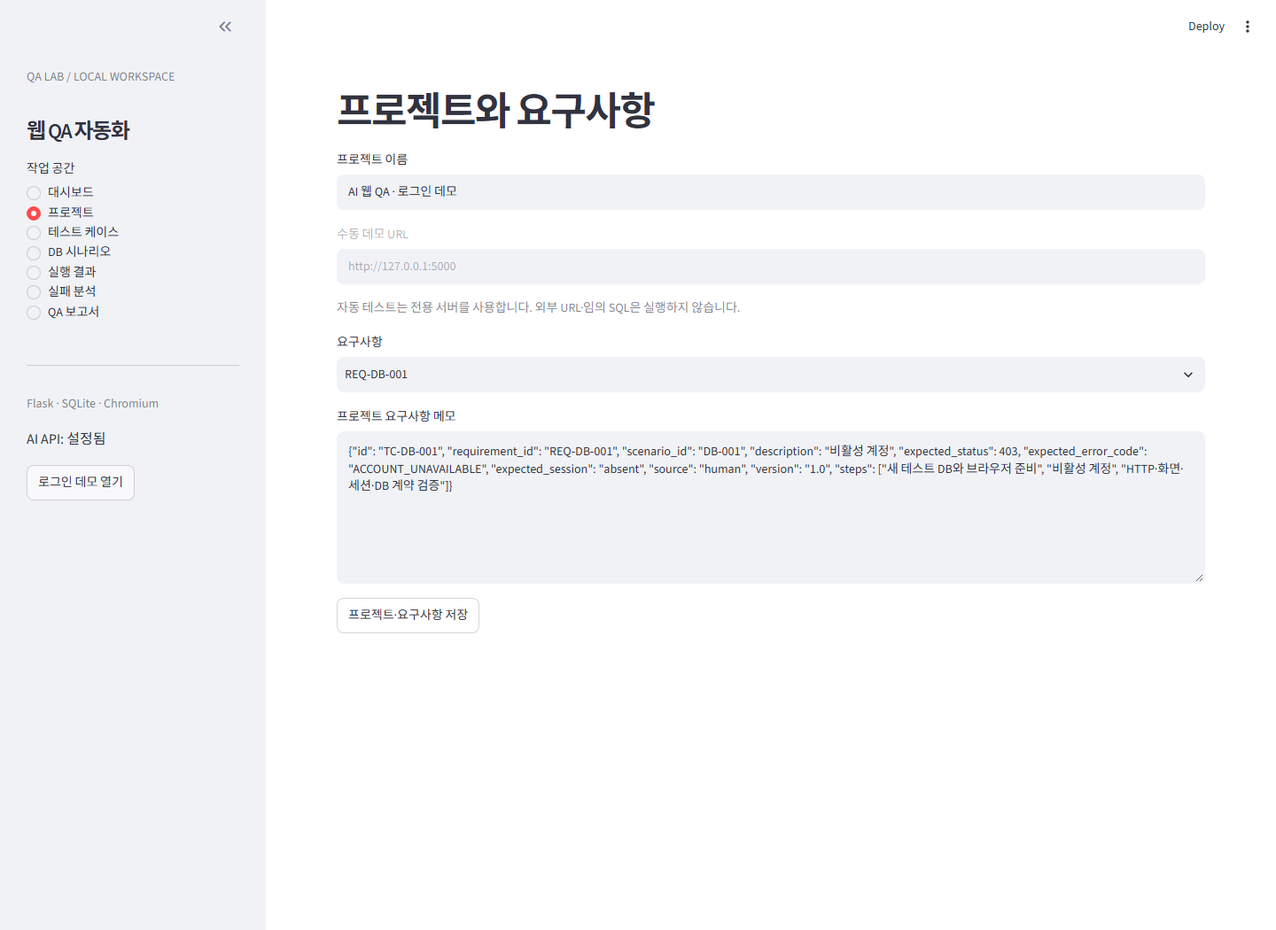
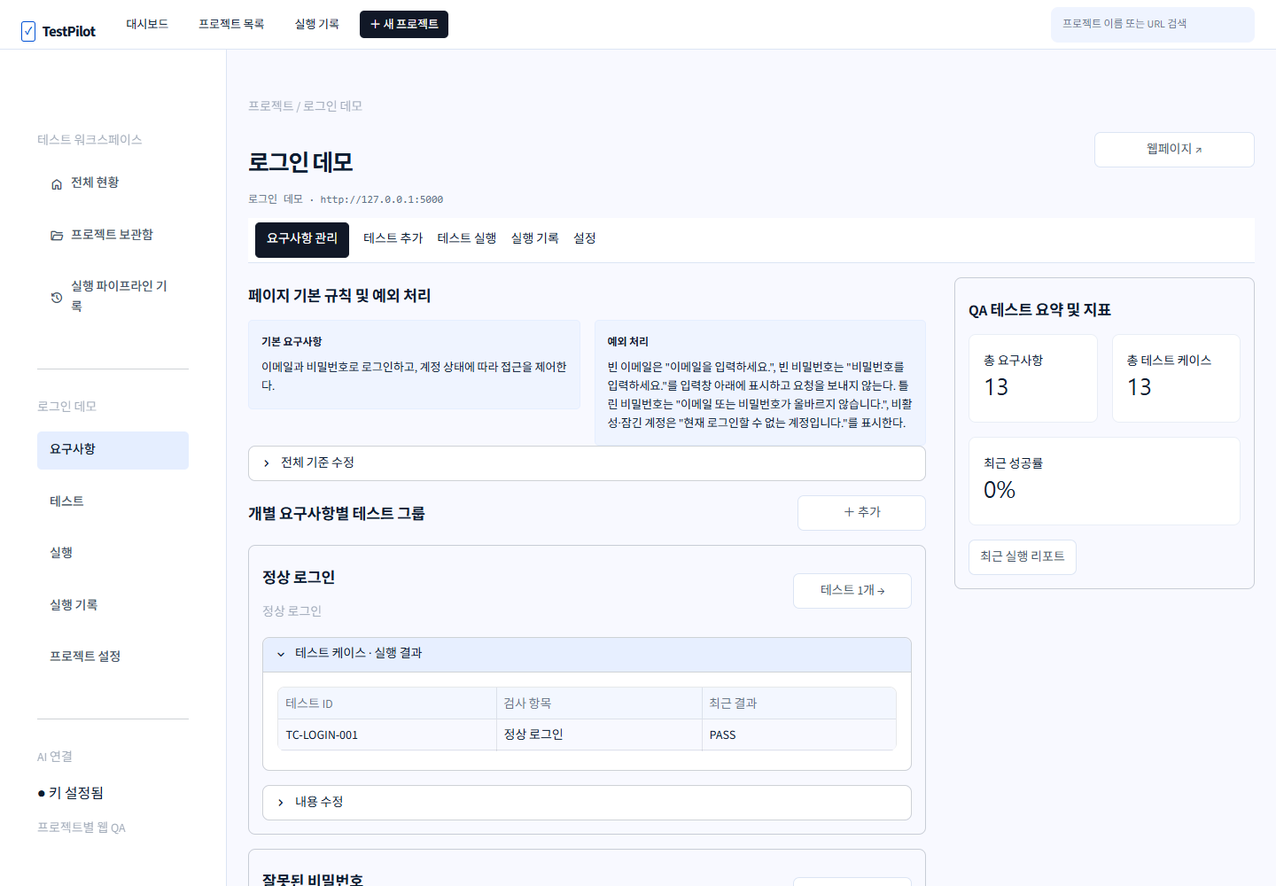
docs: describe the implemented system and refresh screenshots
- PROJECT_OVERVIEW.md now describes the current system instead of the
  plan: AI designs browser steps from the real page structure, people
  approve them, a restricted engine runs them, and failures are
  triaged by cause. Evaluation results replace planned metrics, with
  remaining work and limitations stated.
- AI_Web_QA_Project_Plan.md keeps the original plan and adds a table of
  what changed during implementation and why.
- Replace the October screenshots with the current UI, including AI
  test generation with selector checks and AI failure analysis.
- Rewrite scripts/capture_ui_docs.py to rebuild real data in a
  disposable workspace and capture the four screens reproducibly.

diff --git a/scripts/capture_ui_docs.py b/scripts/capture_ui_docs.py
@@ -1,17 +1,141 @@
-from pathlib import Path
-from playwright.sync_api import sync_playwright
+"""Capture the current QA app screens for docs/images from a disposable workspace.
 
-out = Path(__file__).resolve().parents[1] / 'docs' / 'images'
-out.mkdir(parents=True, exist_ok=True)
-with sync_playwright() as p:
-    browser = p.chromium.launch()
-    page = browser.new_page(viewport={'width': 1440, 'height': 1050}, device_scale_factor=1)
-    page.goto('http://127.0.0.1:8501', wait_until='domcontentloaded')
-    page.get_by_text('검증 가능한 테스트, 설명 가능한 결과', exact=True).wait_for(timeout=60000)
-    page.wait_for_timeout(1500)
-    for label, filename in [('대시보드', 'dashboard.png'), ('프로젝트', 'requirements.png'), ('테스트 케이스', 'test-cases.png'), ('실행 결과', 'results.png')]:
-        page.get_by_text(label, exact=True).first.click()
+Prepares real data first: the 10 baseline login tests, the intentional-fault tests with AI failure
+analysis, and one AI test generation that reads the page structure. Then screenshots four screens:
+dashboard, project requirements, AI test generation, and failure analysis.
+
+Usage:  .venv\\Scripts\\python.exe -m scripts.capture_ui_docs
+Needs port 5000 (login demo) and 8505 free. Makes about 4 OpenAI calls. data/qa.db is never touched.
+Set QA_BROWSER_CHANNEL=msedge when Playwright's Chromium is not installed.
+"""
+import os
+import socket
+import subprocess
+import sys
+import tempfile
+import threading
+import time
+import urllib.request
+from pathlib import Path
+
+ROOT = Path(__file__).resolve().parents[1]
+WORK = Path(tempfile.mkdtemp(prefix='ui-docs-'))
+os.environ['QA_DB_PATH'] = str(WORK / 'qa.db')
+
+from dotenv import load_dotenv  # noqa: E402
+load_dotenv(ROOT / '.env')
+
+from werkzeug.serving import make_server  # noqa: E402
+from demo_web.app import create_app  # noqa: E402
+from demo_web.seed import seed  # noqa: E402
+from qa_system import failure_analysis, storage  # noqa: E402
+from qa_system.projects import cases, get_project, save_project  # noqa: E402
+from qa_system.runner import run_suite  # noqa: E402
+from scripts.setup_fault_projects import install  # noqa: E402
+
+OUT = ROOT / 'docs/images'
+APP_PORT = 8505
+AI_REQUEST = '이메일을 비운 채 로그인하면 이메일 오류 문구가 보이는지 확인하는 테스트를 만들어줘.'
+
+
+def port_free(port):
+    with socket.socket() as probe:
+        return probe.connect_ex(('127.0.0.1', port)) != 0
+
+
+def prepare():
+    storage.initialize()
+    demo = storage.baseline_project_id()
+    project = get_project(demo)
+    # Requirement text states the exact messages, as a real specification would.
+    save_project(demo, project['name'], project['overview'] or '이메일과 비밀번호로 로그인하고, 계정 상태에 따라 접근을 제어한다.',
+                 project['exceptions'] or '빈 이메일은 "이메일을 입력하세요.", 빈 비밀번호는 "비밀번호를 입력하세요."를 입력창 아래에 '
+                 '표시하고 요청을 보내지 않는다. 틀린 비밀번호는 "이메일 또는 비밀번호가 올바르지 않습니다.", 비활성·잠긴 계정은 '
+                 '"현재 로그인할 수 없는 계정입니다."를 표시한다.', tags=['로그인', 'DB', '회귀 테스트'])
+    print('baseline run', run_suite(), flush=True)
+    installed = install()
+    for project_id, case_ids in installed.items():
+        faults = [c['id'] for c in cases(project_id) if c['id'] in case_ids]
+        run_id = run_suite(faults, project_id=project_id)
+        print('fault run', run_id, flush=True)
+        if project_id == demo:
+            print('analysis', failure_analysis.analyze_run(run_id), flush=True)
+    return demo
+
+
+def wait_for(url, seconds=60):
+    for _ in range(seconds * 2):
+        try:
+            with urllib.request.urlopen(url, timeout=2):
+                return
+        except OSError:
+            time.sleep(0.5)
+    raise RuntimeError(f'{url} did not start')
+
+
+def capture(demo):
+    from playwright.sync_api import expect, sync_playwright
+    OUT.mkdir(parents=True, exist_ok=True)
+    with sync_playwright() as playwright:
+        browser = playwright.chromium.launch(channel=os.getenv('QA_BROWSER_CHANNEL') or None)
+        page = browser.new_page(viewport={'width': 1440, 'height': 1000}, device_scale_factor=1)
+        page.goto(f'http://127.0.0.1:{APP_PORT}')
+        expect(page.get_by_role('heading', name='QA 워크스페이스', exact=True)).to_be_visible(timeout=60000)
         page.wait_for_timeout(1500)
-        page.screenshot(path=str(out / filename))
-        print(label, page.locator('body').inner_text()[:2000])
-    browser.close()
+        page.screenshot(path=str(OUT / 'dashboard.png'))
+
+        page.locator(f'.st-key-open_{demo} button').click()
+        expect(page.get_by_role('heading', name='QA 테스트 요약 및 지표')).to_be_visible(timeout=30000)
+        page.wait_for_timeout(1500)
+        page.screenshot(path=str(OUT / 'requirements.png'))
+
+        nav = page.locator('.st-key-project_nav')
+        nav.get_by_role('button', name='테스트 추가', exact=True).click()
+        page.locator('.st-key-show_test_modal button').click()
+        dialog = page.get_by_role('dialog')
+        expect(dialog.get_by_role('heading', name='AI 테스트 생성')).to_be_visible(timeout=30000)
+        dialog.get_by_label('어떤 테스트를 할까요?').fill(AI_REQUEST)
+        dialog.get_by_label('어떤 테스트를 할까요?').press('Control+Enter')
+        dialog.get_by_role('button', name='✦ 테스트 생성').click()
+        check = dialog.get_by_text('시작 페이지에서 정확히').first
+        expect(check).to_be_visible(timeout=120000)
+        check.scroll_into_view_if_needed()  # show the generated steps together with the selector check
+        page.wait_for_timeout(1500)
+        page.screenshot(path=str(OUT / 'test-cases.png'))
+        page.keyboard.press('Escape')
+        expect(dialog).to_be_hidden(timeout=15000)
+
+        nav.get_by_role('button', name='실행 기록', exact=True).click()
+        page.get_by_role('tab', name='실패 분석').click()
+        expect(page.get_by_text('AI 분류').first).to_be_visible(timeout=30000)
+        page.wait_for_timeout(1500)
+        page.screenshot(path=str(OUT / 'results.png'))
+        browser.close()
+
+
+def main():
+    for port in (5000, APP_PORT):
+        if not port_free(port):
+            raise SystemExit(f'포트 {port}가 사용 중입니다. 실행 중인 데모나 QA 앱을 종료한 뒤 다시 실행하세요.')
+    seed(WORK / 'demo.db')
+    demo_server = make_server('127.0.0.1', 5000, create_app(WORK / 'demo.db'))
+    threading.Thread(target=demo_server.serve_forever, daemon=True).start()
+    app = None
+    try:
+        demo = prepare()
+        app = subprocess.Popen([sys.executable, '-m', 'streamlit', 'run', str(ROOT / 'streamlit_app.py'),
+                                '--server.address', '127.0.0.1', '--server.port', str(APP_PORT),
+                                '--server.headless', 'true', '--browser.gatherUsageStats', 'false'],
+                               cwd=ROOT, env=os.environ.copy(), stdout=subprocess.DEVNULL, stderr=subprocess.DEVNULL)
+        wait_for(f'http://127.0.0.1:{APP_PORT}/_stcore/health')
+        capture(demo)
+        print('saved to', OUT)
+    finally:
+        if app:
+            app.terminate()
+            app.wait(timeout=15)
+        demo_server.shutdown()
+
+
+if __name__ == '__main__':
+    main()

diff --git a/PROJECT_OVERVIEW.md b/PROJECT_OVERVIEW.md
@@ -1,17 +1,17 @@
-# AI 웹 QA 자동화 시스템
+# AI 웹 QA 자동화 시스템 (TestPilot)
 
-생성형 AI를 활용해 웹 기능의 요구사항을 테스트 케이스로 구체화하고, 검토한 테스트를 실제 브라우저에서 실행한 뒤 실패 원인과 QA 결과를 정리하는 인공지능프로젝트 과목의 개인 프로젝트입니다.
+생성형 AI가 요구사항과 실제 페이지 구조를 바탕으로 브라우저 테스트를 설계하고, 사람이 검토한 테스트를 실제 브라우저에서 실행한 뒤, 실패하면 그 원인이 테스트 쪽인지 제품 쪽인지 구분해 QA 보고서로 정리하는 인공지능프로젝트 과목의 개인 프로젝트입니다.
 
 - **Notion 프로젝트 계획서:** [AI 웹 QA 자동화 시스템](https://www.notion.so/3eb65ab291e7815faa49c0bb80c996df)
 - **GitHub:** https://github.com/Rascal7/26AI_QAproject
 - **일정:** 7주차 기획, 9~11주차 총 3주 구현 및 테스트
-- **이 README의 범위:** 프로젝트 개요와 설계·개발 계획입니다. 아래 항목은 계획과 완료 기준을 설명하며, 구현 완료 또는 성능 검증 결과를 의미하지 않습니다.
+- **문서 범위:** 이 문서는 현재 구현된 시스템과 측정 결과를 설명합니다. 설치·실행 방법은 [README](README.md), 검증 기록은 [VALIDATION.md](VALIDATION.md), AI 효과 측정은 [AI 기능 효과 측정](docs/ai-evaluation.md)에 있습니다. 처음 기획과 달라진 점은 [기획서](AI_Web_QA_Project_Plan.md)의 "구현 반영 사항"에 정리했습니다.
 
 ## 1. 개발 배경과 목적
 
-웹 기능이 추가되거나 수정될 때 정상 동작, 잘못된 입력, 경계값과 예외 상황을 반복적으로 확인해야 합니다. 개인 개발자와 소규모 팀은 테스트 케이스 작성, 자동화 코드 구현, 실패 원인 조사와 보고서 작성에 많은 시간을 씁니다.
+웹 기능이 추가되거나 수정될 때 정상 동작, 잘못된 입력, 경계값과 예외 상황을 반복해서 확인해야 합니다. 개인 개발자와 소규모 팀은 테스트 케이스 작성, 자동화 코드 구현, 실패 원인 조사와 보고서 작성에 많은 시간을 씁니다.
 
-이 프로젝트는 생성형 AI의 테스트 설계·분석 능력과 실제 브라우저 자동화를 연결해 반복적인 QA 업무를 보조합니다. AI 응답만으로 성공 여부를 판단하지 않고 실행 결과와 증거를 확인합니다.
+이 프로젝트는 생성형 AI의 테스트 설계·분석 능력과 실제 브라우저 자동화를 연결해 반복적인 QA 업무를 돕습니다. **AI 응답만으로 성공 여부를 판단하지 않습니다.** PASS/FAIL은 실제 브라우저 실행 결과로 정하고, AI가 낸 결과는 사람이 검토합니다.
 
 ## 2. 사용자와 핵심 기능
 
@@ -19,105 +19,134 @@
 
 | 기능 | 입력 → 처리 → 출력 |
 |---|---|
-| 요구사항 관리 | 프로젝트·기능 명세 → 입력 검증·저장 → 검토 가능한 요구사항 |
-| AI 테스트 케이스 생성 | 명세·테스트 계약 → 정상·경계값·예외 시나리오 설계 → 구조화된 TC |
-| 테스트 검토·코드 생성 | 선택한 TC → 사용자 검토·AI 코드 생성 → Python 테스트 코드 |
-| 자동 실행 | 검토·승인한 코드 → pytest·Playwright·Chromium → 실행 결과와 증거 |
-| 실패 분석 | 코드·로그·기대/실제 결과 → AI 분석 → 관찰 사실·원인 후보·추가 확인 사항 |
-| QA 보고서 | 결과·분석 → 집계 및 요약 → 테스트 현황·버그 리포트 |
+| 프로젝트·요구사항 관리 | 웹페이지 URL, 전체 요구사항·예외사항, 개별 요구사항 → 저장·태그·검색 → 요구사항별 테스트 그룹 |
+| AI 테스트 생성 | 요구사항 + 사용자 요청 + **실제 페이지 구조** → AI가 브라우저 동작 단계 설계 → 선택자를 실제 페이지에서 확인한 테스트 초안 |
+| 테스트 검토·승인 | AI 초안·기본 템플릿 → 사람이 단계·선택자 수정 후 승인 → 실행 가능한 테스트 |
+| 자동 실행 | 승인한 테스트 → pytest·Playwright·Chromium(별도 프로세스) → PASS/FAIL/ERROR와 스크린샷·trace 증거 |
+| AI 실패 분석 | FAIL의 요구사항·단계·오류·HTTP·세션·DB 증거 → AI가 원인 분류 → 테스트 정의 문제 / 제품 결함 / 환경 문제, 관찰 사실과 추정 원인 |
+| QA 보고서 | 실행 결과·AI 분석 → 프로그램 집계 → 마크다운 보고서·실행 기록·대시보드 |
 
-TC에는 식별자, 설명, 사전 조건, 수행 단계와 기대 결과를 포함합니다. 버그 리포트에는 제목, 재현 절차, 기대 결과, 실제 결과, 심각도 및 추정 원인을 정리합니다.
+로그인 데모 프로젝트에는 사람이 정한 기준 테스트 10개(로그인 5개, DB 비정상 상태 5개)와 의도적 결함 재현 테스트가 함께 들어 있습니다.
 
-## 3. MVP 범위
+## 3. 구현 범위
 
-3주 구현 기간에는 **로컬 로그인 데모를 대상으로 한 QA 전체 흐름**을 우선 완성합니다.
+- **로그인 데모:** Flask + SQLite. 정상·입력 오류·비활성·잠금·해시 손상·로그인 후 삭제·중복 이메일을 처리합니다.
+- **DB 비정상 상황 테스트:** 테스트마다 새 SQLite DB와 브라우저를 만들고, 고정된 fixture로만 DB 상태를 바꿉니다. 기대한 401·403·503 응답은 PASS입니다.
+- **결함 실험:** 비활성 검사 누락, 잠금 검사 누락, 삭제 사용자 재검증 누락, 손상 데이터 오분류 버전을 테스트 실행에서만 켭니다.
+- **일반 웹 프로젝트:** 등록한 URL에 실제 브라우저로 접속해 이동·입력·클릭·키 입력과 HTTP·문구·요소·주소 확인을 실행합니다.
+- **AI 기능:** 페이지 구조 기반 테스트 생성, 생성된 선택자 확인, 실패 원인 분석, 보고서 부록 작성.
 
-- 로그인 정상·입력 오류·계정 상태 등을 확인하는 기준 테스트 10개
-- 요구사항 입력과 AI 케이스 생성·검토
-- 허용된 템플릿의 Python 테스트 코드 생성과 실행 승인
-- 브라우저 자동 실행 및 결과·로그·스크린샷 저장
-- AI 실패 분석, 기본 버그 리포트와 QA 대시보드
-
-회원가입·게시글 기능, 임의 웹사이트 지원, 자동 코드 수정, API 테스트 및 CI/CD는 확장 후보입니다. 초기 버전은 사전 정의된 테스트 계약을 기준으로 하며 임의 코드를 실행하는 범용 시스템을 목표로 하지 않습니다.
+범위 밖: 임의 Python·JavaScript·SQL 실행, 사이트 내부 DB 접근(로그인 데모 제외), 자동 코드 수정, CI/CD.
 
 ## 4. 시스템 구조와 기술
 
 | 구성 | 기술 | 역할 |
 |---|---|---|
-| QA 관리 UI | Python, Streamlit | 입력·검토·실행·결과 조회 |
-| AI 모듈 | OpenAI API | 케이스 제안, 코드 생성, 실패 분석 |
-| 검토·실행 제어 | 응답 스키마 검증, AST 검사, 사용자 승인 | 실행 가능한 코드 제한 |
-| 테스트 실행 | pytest, Playwright, Chromium | 브라우저 조작과 검증 |
-| 테스트 대상 | Flask 로그인 데모, SQLite | 정상·예외 동작 실험 |
-| 데이터 저장 | SQLite, 실행별 파일 | 요구사항·TC·이력·보고서·증거 |
+| QA 관리 UI | Python, Streamlit | 프로젝트·요구사항·테스트·실행·기록 관리 |
+| AI 모듈 | OpenAI API (Structured Outputs) | 테스트 단계 설계, 실패 원인 분류 |
+| 페이지 구조 읽기 | Playwright (별도 프로세스) | 요소·선택자 추출, 생성된 선택자 확인 |
+| 실행 제어 | 허용된 브라우저 동작 8종, 응답 스키마 검증, 사람 승인 | AI 출력이 코드로 실행되지 않게 제한 |
+| 테스트 실행 | pytest, Playwright, Chromium (또는 Edge) | 브라우저 조작과 검증, 증거 수집 |
+| 테스트 대상 | Flask 로그인 데모, SQLite / 등록한 웹페이지 | 정상·예외 동작 실험 |
+| 데이터 저장 | SQLite, 실행별 파일 | 요구사항·테스트·이력·결과·분석·보고서 |
 | 개발 관리 | Git, GitHub, Notion | 변경 이력, 문서, 계획 관리 |
 
 ```text
-사용자 → Streamlit 요구사항 입력 → OpenAI API 테스트 설계
-      → 사용자 케이스 검토 → 코드 생성·검증·실행 승인
-      → pytest / Playwright / Chromium → Flask 로그인 데모
-      → 실행 결과·증거 저장 → AI 실패 분석 → QA 보고서
+사용자 → 프로젝트·요구사항 입력
+      → 페이지 구조 읽기 → OpenAI: 브라우저 동작 단계 설계 → 실제 페이지에서 선택자 확인
+      → 사람 검토·수정·승인
+      → pytest / Playwright (API 키 없는 별도 프로세스) → 대상 웹페이지
+      → PASS / FAIL / ERROR + 증거 저장
+      → FAIL이면 OpenAI: 원인 분류 (테스트 / 제품 / 환경)
+      → QA 보고서
 ```
 
-프로젝트 → 요구사항 → 테스트 케이스 → 실행 이력 → 개별 결과 → 보고서를 연결합니다. 자동 테스트는 테스트별 DB와 브라우저 컨텍스트를 분리해 데이터 간섭을 줄입니다.
+AI는 정해진 동작 8종(`navigate`, `fill`, `click`, `press`, `assert_status`, `assert_visible`, `assert_text`, `assert_url`)을 조합한 JSON만 만듭니다. 실행 엔진은 같은 사이트 밖으로 이동하지 못하게 막고, 비밀번호는 `${QA_TEST_PASSWORD}` 같은 환경변수 참조로만 입력하게 합니다.
 
-## 5. UI/UX 예시
+## 5. UI/UX
 
-로컬 앱의 실제 화면입니다. 요구사항 입력 → 테스트 검토 → 실행 순서로 사용합니다.
+로컬 앱의 실제 화면입니다. `python -m scripts.capture_ui_docs`로 다시 찍을 수 있습니다.
 
-### 요구사항 입력
-![프로젝트와 요구사항 입력 화면](docs/images/requirements.png)
+### 대시보드
+![프로젝트와 최근 실행 기록 대시보드](docs/images/dashboard.png)
 
-### 테스트 케이스 검토
-![테스트 케이스 생성과 검토 화면](docs/images/test-cases.png)
+### 요구사항 관리
+![프로젝트의 전체 기준과 요구사항별 테스트 그룹](docs/images/requirements.png)
 
-### 테스트 실행 대시보드
-![테스트 선택과 실행 대시보드](docs/images/dashboard.png)
+### AI 테스트 생성 — 페이지 구조 전달과 선택자 확인
+![페이지 구조를 읽어 AI 테스트를 만들고 선택자를 확인한 화면](docs/images/test-cases.png)
+
+### 실패 분석 — AI 원인 분류
+![FAIL마다 AI가 원인을 분류한 실패 분석 화면](docs/images/results.png)
 
 ## 6. AI 활용방안
 
-1. **테스트 설계:** 요구사항과 테스트 계약을 입력받아 정상·경계값·예외 케이스를 구조화된 형식으로 제안합니다.
-2. **코드 생성:** 검토된 TC를 허용된 Python 테스트 템플릿으로 변환합니다.
-3. **실패 분석:** 실제 결과와 민감정보를 제거한 로그로 관찰 사실과 원인 후보를 구분합니다.
-4. **보고서 보조:** 검증된 증거를 바탕으로 버그 설명과 QA 요약 초안을 작성합니다.
+1. **테스트 설계:** 요구사항, 예외사항, 사용자 요청과 함께 **대상 페이지에서 읽은 요소·선택자 목록**을 AI에 전달합니다. AI는 정상·예외 시나리오를 브라우저 동작 단계로 설계하고, 추정한 부분은 검토 메모에 적습니다.
+2. **선택자 확인:** 생성된 선택자가 실제 페이지에서 정확히 1개 요소와 일치하는지 프로그램이 확인해 보여줍니다. 사람은 이 결과를 보고 단계를 수정·승인합니다.
+3. **실패 분석:** FAIL마다 요구사항과 실행 증거를 보내, 실행 증거에서 확인한 **관찰 사실**과 AI의 **추정 원인**을 나누고, 원인이 **테스트 정의 문제 / 제품 결함 / 환경 문제** 중 어디에 가까운지 분류합니다. 테스트 문제면 고칠 단계를, 제품 결함이면 버그 리포트 요약을 제안합니다.
+4. **보고서 보조:** AI 분석을 실행 보고서에 부록으로 덧붙입니다. 통계와 PASS/FAIL 판정은 프로그램이 계산합니다.
 
-실제 브라우저 제어와 PASS/FAIL 판정은 Playwright 테스트가 담당합니다. 통계는 프로그램이 계산하고, AI의 추정 원인·심각도는 사용자가 검토합니다. Codex는 개발 과정의 코드 작성·수정·리뷰를 지원하는 도구로 활용합니다.
+AI가 기대 결과를 바꾸거나 PASS/FAIL을 정하지는 않습니다. Codex와 Claude Code는 개발 과정의 코드 작성·수정·리뷰를 돕는 도구로 사용했습니다.
 
-## 7. 구체적인 일정 계획
+## 7. 일정 계획
 
-수업 주차 기준입니다. 8주차는 개발 일정에서 제외하며 실제 발표일은 수업 공지에 따릅니다.
+수업 주차 기준 계획입니다. 8주차는 개발 일정에서 제외했고, 실제 진행 결과는 [VALIDATION.md](VALIDATION.md)에 날짜별로 기록했습니다.
 
 | 주차 | 목표 | 구체적인 작업 | 완료 기준 |
 |---|---|---|---|
 | 7주차 · 기획 | 설계 확정 | 요구사항·핵심 기능·구조·UI/UX·AI 입출력 설계, 테스트 기준, GitHub·README 정리 | 계획서 및 3주 구현 일정 |
-| 9주차 · 구현·단위 테스트 | 케이스 생성까지 | 전반: 로그인 데모·DB·UI / 중반: AI 연결·TC 생성·검토 / 후반: 입력 검증과 정상·예외 테스트 | 데모·입력·생성·검토 동작, 기준 TC 10개 |
-| 10주차 · 구현·통합 테스트 | 자동 실행과 결과 | 전반: 코드 생성·검증·승인 / 중반: 브라우저 실행·저장 / 후반: 결과 분류·증거·데이터 격리 테스트 | 입력부터 실행 결과까지 연결 |
-| 11주차 · 구현 마무리·최종 테스트 | 분석·보고서·완성 | 전반: AI 분석·보고서 / 중반: 결함 비교·평가·오류 수정 / 후반: README·최종 보고서·슬라이드·시연 준비 | 주차 말 최종 결과물 및 발표 준비 완료 |
+| 9주차 · 구현·단위 테스트 | 케이스 생성까지 | 로그인 데모·DB·UI, AI 연결·테스트 생성·검토, 입력 검증과 정상·예외 테스트 | 데모·입력·생성·검토 동작, 기준 TC 10개 |
+| 10주차 · 구현·통합 테스트 | 자동 실행과 결과 | 실행 제한·승인, 브라우저 실행·저장, 결과 분류·증거·데이터 격리 테스트 | 입력부터 실행 결과까지 연결 |
+| 11주차 · 구현 마무리·최종 테스트 | 분석·보고서·완성 | AI 분석·보고서, 결함 비교·효과 측정·오류 수정, README·최종 보고서·발표 준비 | 최종 결과물 및 발표 준비 완료 |
 
-일정이 지연되면 대상 기능 확장과 상세 시각화를 후순위로 두고 로그인 QA 핵심 흐름, 검증, 문서화를 우선합니다.
+## 8. 테스트 및 평가 결과
 
-## 8. 테스트 및 평가
+**기능 검증**
+- 자동 테스트 61개가 모두 통과했습니다. 서버 계약, DB 시나리오, 프로젝트 격리, 화면 동작, 실행 제한, 민감정보 제거, AI 기능이 포함됩니다.
+- 정상 버전에서는 기준 10개가 모두 PASS했습니다. 테스트 순서를 뒤집어도 같은 결과가 나와 테스트끼리 서로 영향을 주지 않는다는 것을 확인했습니다.
 
-- **기능:** 요구사항 입력부터 보고서 조회까지 통합 흐름과 오류 처리 확인
-- **TC 품질:** 동일 명세의 수동 TC와 AI TC를 비교해 유효·중복·오류 항목 집계
-- **결함 탐지:** 정상 버전과 알려진 결함을 넣은 버전 비교
-- **보고서 품질:** 재현 절차, 기대/실제 결과 및 원인 설명을 증거와 비교
-- **작업 시간:** AI 생성뿐 아니라 사용자 검토·수정 시간을 포함해 수동 작업과 비교
+**결함 탐지**
+- 주입한 결함 3개를 모두 찾아냈습니다(3/3).
+- 정상적인 예외 처리를 버그로 잘못 보고한 경우는 0건입니다.
 
-유효 TC 비율 = 유효 TC 수 / 생성 TC 수 × 100.
-성공률 = PASS / (PASS + FAIL) × 100이며 ERROR·미실행 항목은 별도 표시합니다. 분모가 0이면 성공률을 산출하지 않습니다. 실제 측정 전에는 수치를 성능 결과로 제시하지 않습니다.
+**AI 효과** ([상세](docs/ai-evaluation.md))
+| 측정 | 결과 |
+|---|---|
+| AI 테스트를 수정 없이 실행했을 때 PASS — 페이지 구조 없음 → 전달 | 40% → **90%** (각 30개) |
+| 생성된 선택자가 실제 페이지와 정확히 일치 | 61.8% → **100%** |
+| `data-testid`가 없는 페이지의 PASS | 0/15 → **12/15** |
+| 실패 원인 분석: AI가 만든 테스트가 틀린 경우를 테스트 문제로 분류 | **9/9** |
+| 실패 원인 분석: 실제 제품 결함을 제품 결함으로 분류 (결함 표시를 가림) | **18/18** |
+
+**지표 정의**
+- 성공률 = PASS / (PASS + FAIL) × 100입니다.
+- ERROR와 미실행 항목은 성공률 계산에서 빼고 따로 표시합니다.
+- 보고서의 실행 완료율은 PASS·FAIL 판정까지 끝난 테스트의 비율입니다.
+
+**남은 평가**
+- 유효 TC 비율: 생성된 테스트가 요구사항에 맞는 의미 있는 검사인지 사람이 판정해야 합니다. 판정 결과는 [CSV](experiments/results/ai-quality-20261116-1529.csv)에 기록합니다.
+- 작업 시간: 테스트를 직접 작성할 때 걸리는 시간과의 비교는 아직 측정하지 않았습니다.
+
+**확인된 한계**
+- AI는 시작 페이지만 읽습니다. 그래서 페이지를 이동한 뒤에 나오는 요소는 여전히 짐작에 의존합니다.
+- 측정 표본이 작습니다(페이지 2개, 시나리오 10개).
 
 ## 9. 실행·데이터 관리 원칙
 
-- AI 생성 코드는 형식 검사와 사용자 검토·승인 후 실행합니다.
-- API 키는 환경변수로 관리하며 GitHub에 올리지 않습니다.
-- 실행 DB, 개인 로그, 생성 결과와 가상환경은 공개 소스에서 제외합니다.
-- 실제 비밀번호·세션 정보는 AI 입력과 공개 보고서에서 제외합니다.
-- 테스트 결과는 PASS, FAIL, ERROR로 구분하고 제품 결함과 실행 환경 오류를 분리합니다.
+- AI 출력은 정해진 브라우저 동작 형식만 허용하고, 사람이 검토·승인한 뒤 실행합니다. 임의 코드는 실행하지 않습니다.
+- 테스트 실행과 페이지 읽기는 API 키가 없는 별도 프로세스에서 합니다.
+- API 키는 환경변수(`.env`)로 관리하며 GitHub에 올리지 않습니다.
+- 실행 DB, 개인 로그, 실행 증거와 가상환경은 공개 소스에서 제외합니다.
+- 실제 비밀번호·세션 정보·입력값·로컬 파일 경로는 AI 입력과 공개 보고서에서 제외합니다.
+- 테스트 결과는 PASS, FAIL, ERROR로 구분해 제품 결함과 실행 환경 오류를 분리합니다.
 
 ## 10. 최종 결과물
 
-실행 가능한 QA 시스템과 로그인 데모, 소스 코드와 설치·실행 안내, 테스트 케이스와 결과 증거, 버그·QA 보고서, 성능 평가 자료, 발표 슬라이드와 시연 자료를 준비합니다.
+- 실행 가능한 QA 시스템과 로그인 데모
+- 소스 코드와 설치·실행 안내
+- 기준 테스트와 실행 증거
+- 버그·QA 보고서
+- AI 효과 측정 자료와 다시 측정할 수 있는 실험 스크립트(`experiments/`)
+- 발표 슬라이드와 시연 자료
 
-Notion에는 기획·설계·일정을, GitHub에는 프로젝트 설명과 코드 변경 이력을 관리합니다. 이 문서 갱신에서는 README를 반영하며, 로컬 소스 코드 전체 업로드는 포함하지 않습니다.
-
+Notion에는 기획·설계·일정을, GitHub에는 프로젝트 설명·소스 코드·변경 이력을 관리합니다.

diff --git a/AI_Web_QA_Project_Plan.md b/AI_Web_QA_Project_Plan.md
@@ -4,6 +4,20 @@
 
 Downloads의 초기 기획서를 바탕으로 확정한 구현 범위와 DB 비정상 상황 검증을 반영한 작업본이다. 상세 화면·입력값·기준 테스트는 [로그인 데모 기획서](LOGIN_DEMO_WEB_PLAN.md)를 따른다.
 
+## 구현 반영 사항 (2026-11-16)
+
+아래 본문은 기획 당시의 계획이다. 구현하면서 달라진 점은 다음과 같다. 현재 구조는 [프로젝트 개요](PROJECT_OVERVIEW.md)를 따른다.
+
+| 기획 | 구현 | 바꾼 이유 |
+|---|---|---|
+| AI가 검토된 TC를 Python 테스트 코드로 생성(7·11장) | AI는 정해진 브라우저 동작 8종을 조합한 JSON 단계만 만들고, 고정된 실행 엔진이 실행한다. 데모 기준 10개는 사람이 정한 고정 실행 코드를 쓴다. | 생성 코드를 허용 템플릿과 같은 AST로만 통과시키면 AI가 실제로 만드는 코드가 없었다. 동작 단계 방식은 AI가 실제로 테스트를 설계하면서도 임의 코드 실행을 막는다. |
+| 화면 요소 명세를 사람이 입력(5·7장) | 대상 페이지를 브라우저로 열어 요소·선택자를 자동으로 읽어 AI에 전달하고, 생성된 선택자를 실제 페이지에서 확인한다. | 요소를 사람이 일일이 적기 어렵고, 구조가 없으면 AI가 선택자를 짐작했다(수정 없이 PASS 40% → 구조 전달 시 90%). |
+| 테스트 대상: 로그인 데모(2장, 확장은 후속) | 로그인 데모에 더해, URL을 등록한 일반 웹페이지도 프로젝트로 관리하고 실행한다. DB 상태 fixture는 로그인 데모에서만 지원한다. | 같은 실행·보고 흐름을 실제 페이지에도 적용하기 위해서다. |
+| AI 실패 분석: 관찰 사실과 원인 후보 분리(7·8장) | 그대로 유지하고, 원인을 테스트 정의 문제 / 제품 결함 / 환경 문제로 분류하는 기능을 더했다. FAIL마다 실행 직후 자동으로 분석한다. | AI가 만든 테스트가 틀린 경우를 제품 결함으로 보고하지 않기 위해서다(테스트 문제 9/9, 실제 결함 18/18 구분). |
+| 결함 실험 3종(10장) | 3종에 손상 데이터 오분류를 더해 4종이다. 결함 재현 테스트를 프로젝트에 등록해 정상 서버와 분리 실행한다. | DB 데이터 오류 처리 결함도 확인하기 위해서다. |
+
+10장 지표 중 시나리오 커버리지, 정상 예외 처리 오탐, 결함 발견률, 수정 없이 실행 가능한 비율은 측정했다([VALIDATION.md](VALIDATION.md), [AI 기능 효과 측정](docs/ai-evaluation.md)). 사람이 판정하는 유효 테스트 비율과 검토 포함 소요 시간은 아직 남아 있다.
+
 ## 1. 프로젝트 목적
 
 웹 기능 요구사항과 화면 요소 정보, DB 시나리오를 입력받아 생성형 AI가 테스트 케이스와 Python 테스트 코드를 만들고, 실제 실행 증거를 바탕으로 QA 보고서를 작성하는 개인 프로젝트다.
